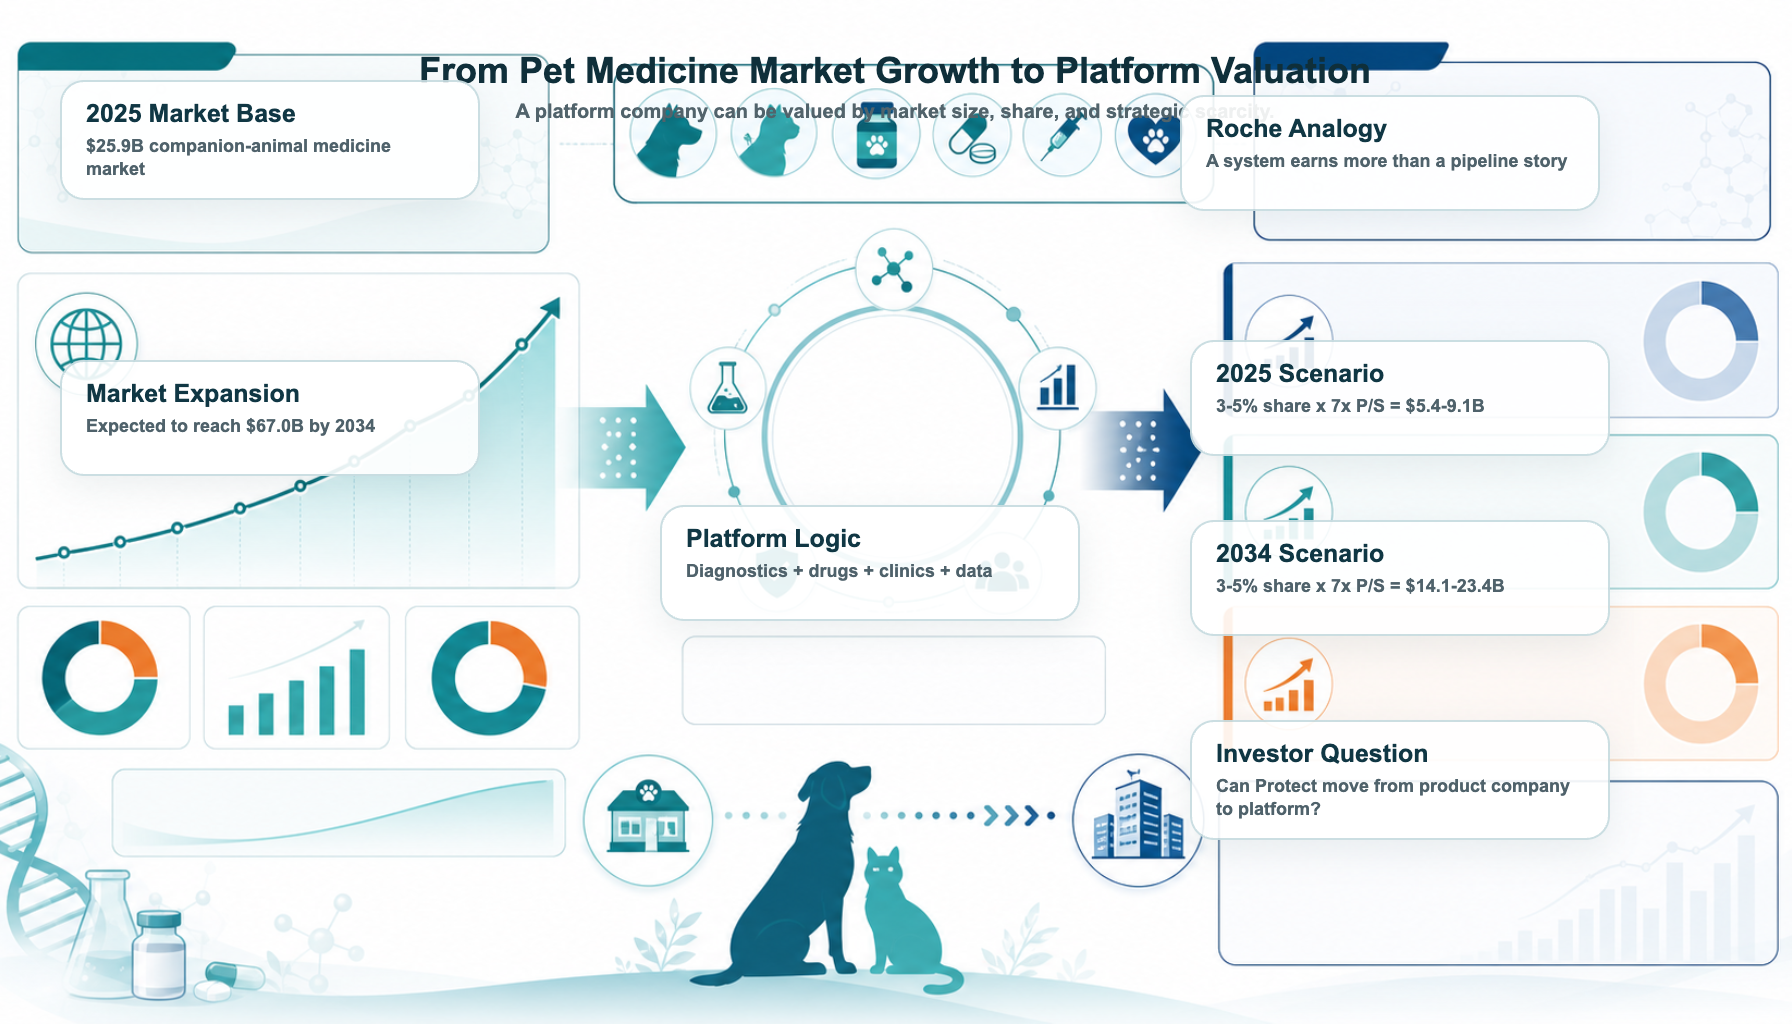
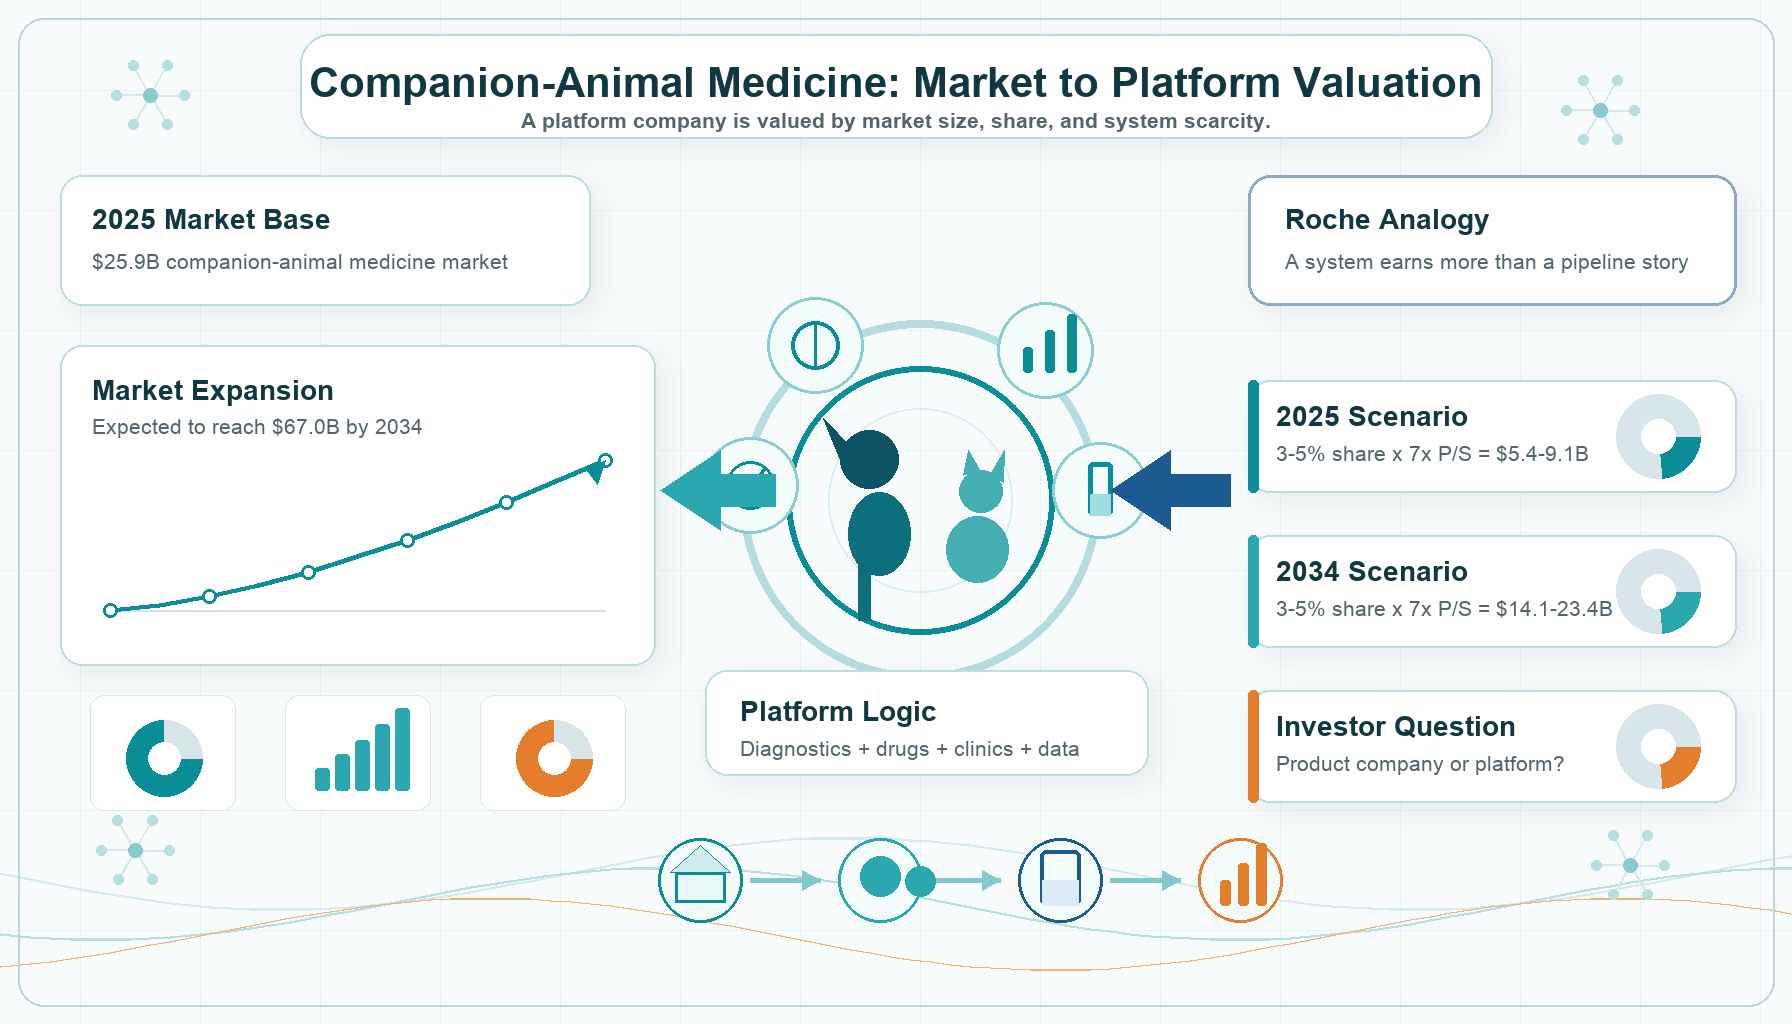
Fix Protect English figure and mobile article layout

diff --git a/styles.css b/styles.css
@@ -2174,7 +2174,32 @@ h3 { margin: 0 0 10px; font-size: 1.08rem; }
 
 @media (max-width: 520px) {
   .container {
-    width: min(100% - 56px, 1120px);
+    width: calc(100vw - 32px);
+    max-width: calc(100vw - 32px);
+  }
+  .nav {
+    min-height: auto;
+    padding: 14px 0;
+    flex-direction: column;
+    align-items: flex-start;
+    gap: 12px;
+  }
+  .brand,
+  .nav-links {
+    max-width: 100%;
+    min-width: 0;
+  }
+  .nav-links {
+    width: 100%;
+    display: grid;
+    grid-template-columns: repeat(2, minmax(0, 1fr));
+    gap: 8px 18px;
+    font-size: 0.88rem;
+  }
+  .nav-links a {
+    min-width: 0;
+    padding: 2px 0;
+    overflow-wrap: anywhere;
   }
   html,
   body {
@@ -2234,6 +2259,14 @@ h3 { margin: 0 0 10px; font-size: 1.08rem; }
     max-width: 100%;
     min-width: 0;
   }
+  .article-hero-inner,
+  .article-layout,
+  .article-body,
+  .article-share,
+  .tag-row {
+    width: calc(100vw - 32px);
+    max-width: calc(100vw - 32px);
+  }
   .article-hero h1,
   .article-deck,
   .article-body h1,
@@ -2251,9 +2284,15 @@ h3 { margin: 0 0 10px; font-size: 1.08rem; }
   .article-body p {
     width: 100%;
   }
+  .article-hero-inner,
+  .article-share {
+    width: 100%;
+  }
   .article-section .container,
   .article-hero .container {
-    overflow-x: clip;
+    width: calc(100vw - 32px);
+    max-width: calc(100vw - 32px);
+    overflow-x: visible;
   }
   .article-body p {
     font-size: 1.02rem;
@@ -2274,6 +2313,11 @@ h3 { margin: 0 0 10px; font-size: 1.08rem; }
   }
   .tag {
     min-height: 34px;
+    height: auto;
+    line-height: 1.35;
+    padding-top: 7px;
+    padding-bottom: 7px;
+    white-space: normal;
   }
   .article-list,
   .article-card,
